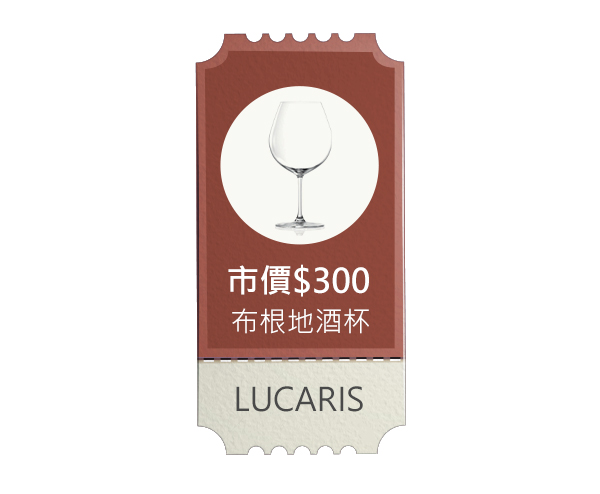
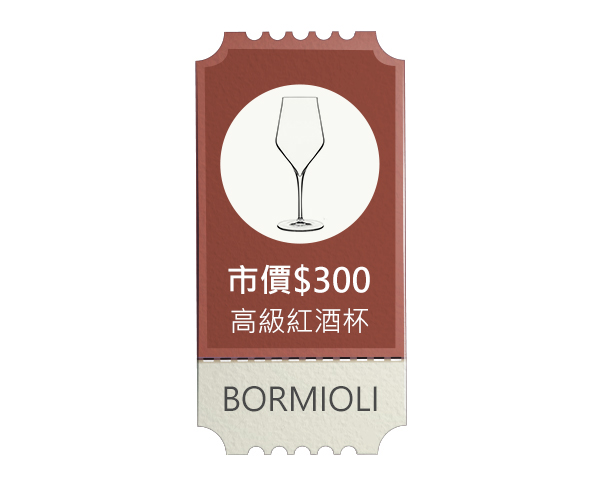
fixed for NTU project,change glass pic and info

diff --git a/cart_step3_NTU.html b/cart_step3_NTU.html
@@ -290,9 +290,9 @@ $(function(){
             });
 
             //控制2組-抽獎
-            var GiftControl02_Lottery100 = '<div class="ticket_layout"><div class="one_ticket" style="background-image: url(images/NTU/glass_empty.png);margin-left:calc((100% - 170px)/2);position:relative;"><div class="marquee"><div class="animate_box"><div class="one_glass" style="background-image:url(images/NTU/glass_100.png);"></div><div class="one_glass" style="background-image:url(images/NTU/glass_500.png);"></div><div class="one_glass" style="background-image:url(images/NTU/glass_100.png);"></div></div></div><div class="GiftInfo_layout"><div style="text-align:center;color: #fff;font-weight:bold;font-size:20px;">市價$100</div><div style="text-align:center;color: #fff;font-size:16px;margin-top:5px;">LUACRIS<br/>布根地紅酒杯</div></div></div></div><p style="text-align:center;font-size:16px;margin-top:20px;">禮物兌換券將email至您的信箱，敬請查收！</p>'
+            var GiftControl02_Lottery100 = '<div class="ticket_layout"><div class="one_ticket" style="background-image: url(images/NTU/glass_empty.png);margin-left:calc((100% - 170px)/2);position:relative;"><div class="marquee"><div class="animate_box"><div class="one_glass" style="background-image:url(images/NTU/glass_100.png);"></div><div class="one_glass" style="background-image:url(images/NTU/glass_500.png);"></div><div class="one_glass" style="background-image:url(images/NTU/glass_100.png);"></div></div></div><div class="GiftInfo_layout"><div style="text-align:center;color: #fff;font-weight:bold;font-size:20px;">市價$100</div><div style="text-align:center;color: #fff;font-size:16px;margin-top:5px;">OCEAN<br/>紅酒杯</div></div></div></div><p style="text-align:center;font-size:16px;margin-top:20px;">禮物兌換券將email至您的信箱，敬請查收！</p>'
 
-            var GiftControl02_Lottery500 = '<div class="ticket_layout"><div class="one_ticket" style="background-image: url(images/NTU/glass_empty.png);margin-left:calc((100% - 170px)/2);position:relative;"><div class="marquee"><div class="animate_box"><div class="one_glass" style="background-image:url(images/NTU/glass_500.png);"></div><div class="one_glass" style="background-image:url(images/NTU/glass_100.png);"></div><div class="one_glass" style="background-image:url(images/NTU/glass_500.png);"></div></div></div><div class="GiftInfo_layout"><div style="text-align:center;color: #fff;font-size:20px;">市價$500</div><div style="text-align:center;color: #fff;font-size:16px;margin-top:5px;">LUIGI BORMIOLI<br/>頂級系列紅酒杯</div></div></div></div><p style="text-align:center;font-size:16px;margin-top:20px;">禮物兌換券將email至您的信箱，敬請查收！</p>'
+            var GiftControl02_Lottery500 = '<div class="ticket_layout"><div class="one_ticket" style="background-image: url(images/NTU/glass_empty.png);margin-left:calc((100% - 170px)/2);position:relative;"><div class="marquee"><div class="animate_box"><div class="one_glass" style="background-image:url(images/NTU/glass_500.png);"></div><div class="one_glass" style="background-image:url(images/NTU/glass_100.png);"></div><div class="one_glass" style="background-image:url(images/NTU/glass_500.png);"></div></div></div><div class="GiftInfo_layout"><div style="text-align:center;color: #fff;font-size:20px;">市價$500</div><div style="text-align:center;color: #fff;font-size:16px;margin-top:5px;">LUCARIS<br/>頂級紅酒杯</div></div></div></div><p style="text-align:center;font-size:16px;margin-top:20px;">禮物兌換券將email至您的信箱，敬請查收！</p>'
             $('#Lottery_glass').click(function(){
                 $('#notice3-2').css({
                     width: '350px',
@@ -301,7 +301,7 @@ $(function(){
                     top: (intBrowserH - 530) / 2
                 });
                 $('#notice3-2 .notice_title').text('收信拿禮物券！');
-                $('#notice3-2 .notice_body').html(GiftControl02_Lottery100);
+                $('#notice3-2 .notice_body').html(GiftControl02_Lottery500);
                 setTimeout(function(){
                     $('.animate_box').css({
                         'animation-name':'marquee',
@@ -393,9 +393,9 @@ $(function(){
                 top: (intBrowserH - 530) / 2
             });
 
-            var GiftControl05_Lottery100 = '<div class="ticket_layout"><div class="one_ticket" style="background-image: url(images/NTU/glass_empty.png);margin-left:calc((100% - 170px)/2);position:relative;"><div class="marquee"><div class="animate_box"><div class="one_glass" style="background-image:url(images/NTU/glass_100.png);"></div><div class="one_glass" style="background-image:url(images/NTU/glass_500.png);"></div><div class="one_glass" style="background-image:url(images/NTU/glass_100.png);"></div></div></div><div class="GiftInfo_layout"><div style="text-align:center;color: #fff;font-weight:bold;font-size:20px;">市價$100</div><div style="text-align:center;color: #fff;font-size:16px;margin-top:5px;">LUACRIS<br/>布根地紅酒杯</div></div></div></div><p style="text-align:center;font-size:16px;margin-top:20px;">禮物兌換券將email至您的信箱，敬請查收！</p>'
+            var GiftControl05_Lottery100 = '<div class="ticket_layout"><div class="one_ticket" style="background-image: url(images/NTU/glass_empty.png);margin-left:calc((100% - 170px)/2);position:relative;"><div class="marquee"><div class="animate_box"><div class="one_glass" style="background-image:url(images/NTU/glass_100.png);"></div><div class="one_glass" style="background-image:url(images/NTU/glass_500.png);"></div><div class="one_glass" style="background-image:url(images/NTU/glass_100.png);"></div></div></div><div class="GiftInfo_layout"><div style="text-align:center;color: #fff;font-weight:bold;font-size:20px;">市價$100</div><div style="text-align:center;color: #fff;font-size:16px;margin-top:5px;">OCEAN<br/>紅酒杯</div></div></div></div><p style="text-align:center;font-size:16px;margin-top:20px;">禮物兌換券將email至您的信箱，敬請查收！</p>'
 
-            var GiftControl05_Lottery500 = '<div class="ticket_layout"><div class="one_ticket" style="background-image: url(images/NTU/glass_empty.png);margin-left:calc((100% - 170px)/2);position:relative;"><div class="marquee"><div class="animate_box"><div class="one_glass" style="background-image:url(images/NTU/glass_500.png);"></div><div class="one_glass" style="background-image:url(images/NTU/glass_100.png);"></div><div class="one_glass" style="background-image:url(images/NTU/glass_500.png);"></div></div></div><div class="GiftInfo_layout"><div style="text-align:center;color: #fff;font-size:20px;">市價$500</div><div style="text-align:center;color: #fff;font-size:16px;margin-top:5px;">LUIGI BORMIOLI<br/>頂級系列紅酒杯</div></div></div></div><p style="text-align:center;font-size:16px;margin-top:20px;">禮物兌換券將email至您的信箱，敬請查收！</p>'
+            var GiftControl05_Lottery500 = '<div class="ticket_layout"><div class="one_ticket" style="background-image: url(images/NTU/glass_empty.png);margin-left:calc((100% - 170px)/2);position:relative;"><div class="marquee"><div class="animate_box"><div class="one_glass" style="background-image:url(images/NTU/glass_500.png);"></div><div class="one_glass" style="background-image:url(images/NTU/glass_100.png);"></div><div class="one_glass" style="background-image:url(images/NTU/glass_500.png);"></div></div></div><div class="GiftInfo_layout"><div style="text-align:center;color: #fff;font-size:20px;">市價$500</div><div style="text-align:center;color: #fff;font-size:16px;margin-top:5px;">LUCARIS<br/>頂級紅酒杯</div></div></div></div><p style="text-align:center;font-size:16px;margin-top:20px;">禮物兌換券將email至您的信箱，敬請查收！</p>'
 
             $('#notice3-5 .notice_title').text('收信拿禮物券！');
             $('#notice3-5 .notice_body').html(GiftControl05_Lottery500);
@@ -1441,7 +1441,7 @@ $(function(){
 	 
 		 <div class="BTN_CONSULT" >
          	<br />
-            <button value="確認送出" class="btn_send"  onclick="Pops('#notice3-7')" />	
+            <button value="確認送出" class="btn_send"  onclick="Pops('#notice3-5')" />	
 			 
 		 </div>
 </div>

diff --git a/Scripts/all_m.js b/Scripts/all_m.js
@@ -427,7 +427,7 @@ $(document).ready(function(){
 	//台大實驗用結束後可刪
 	$('#Step3_submit').click(function(){
 		BodyScrollTopY = $(window).scrollTop();
-		PopWindow('#Pop_NTU_Control7',intBrowserH,intBrowserW);	
+		PopWindow('#Pop_NTU_Control2',intBrowserH,intBrowserW);	
 	});
 
 	//PopWindow關閉
